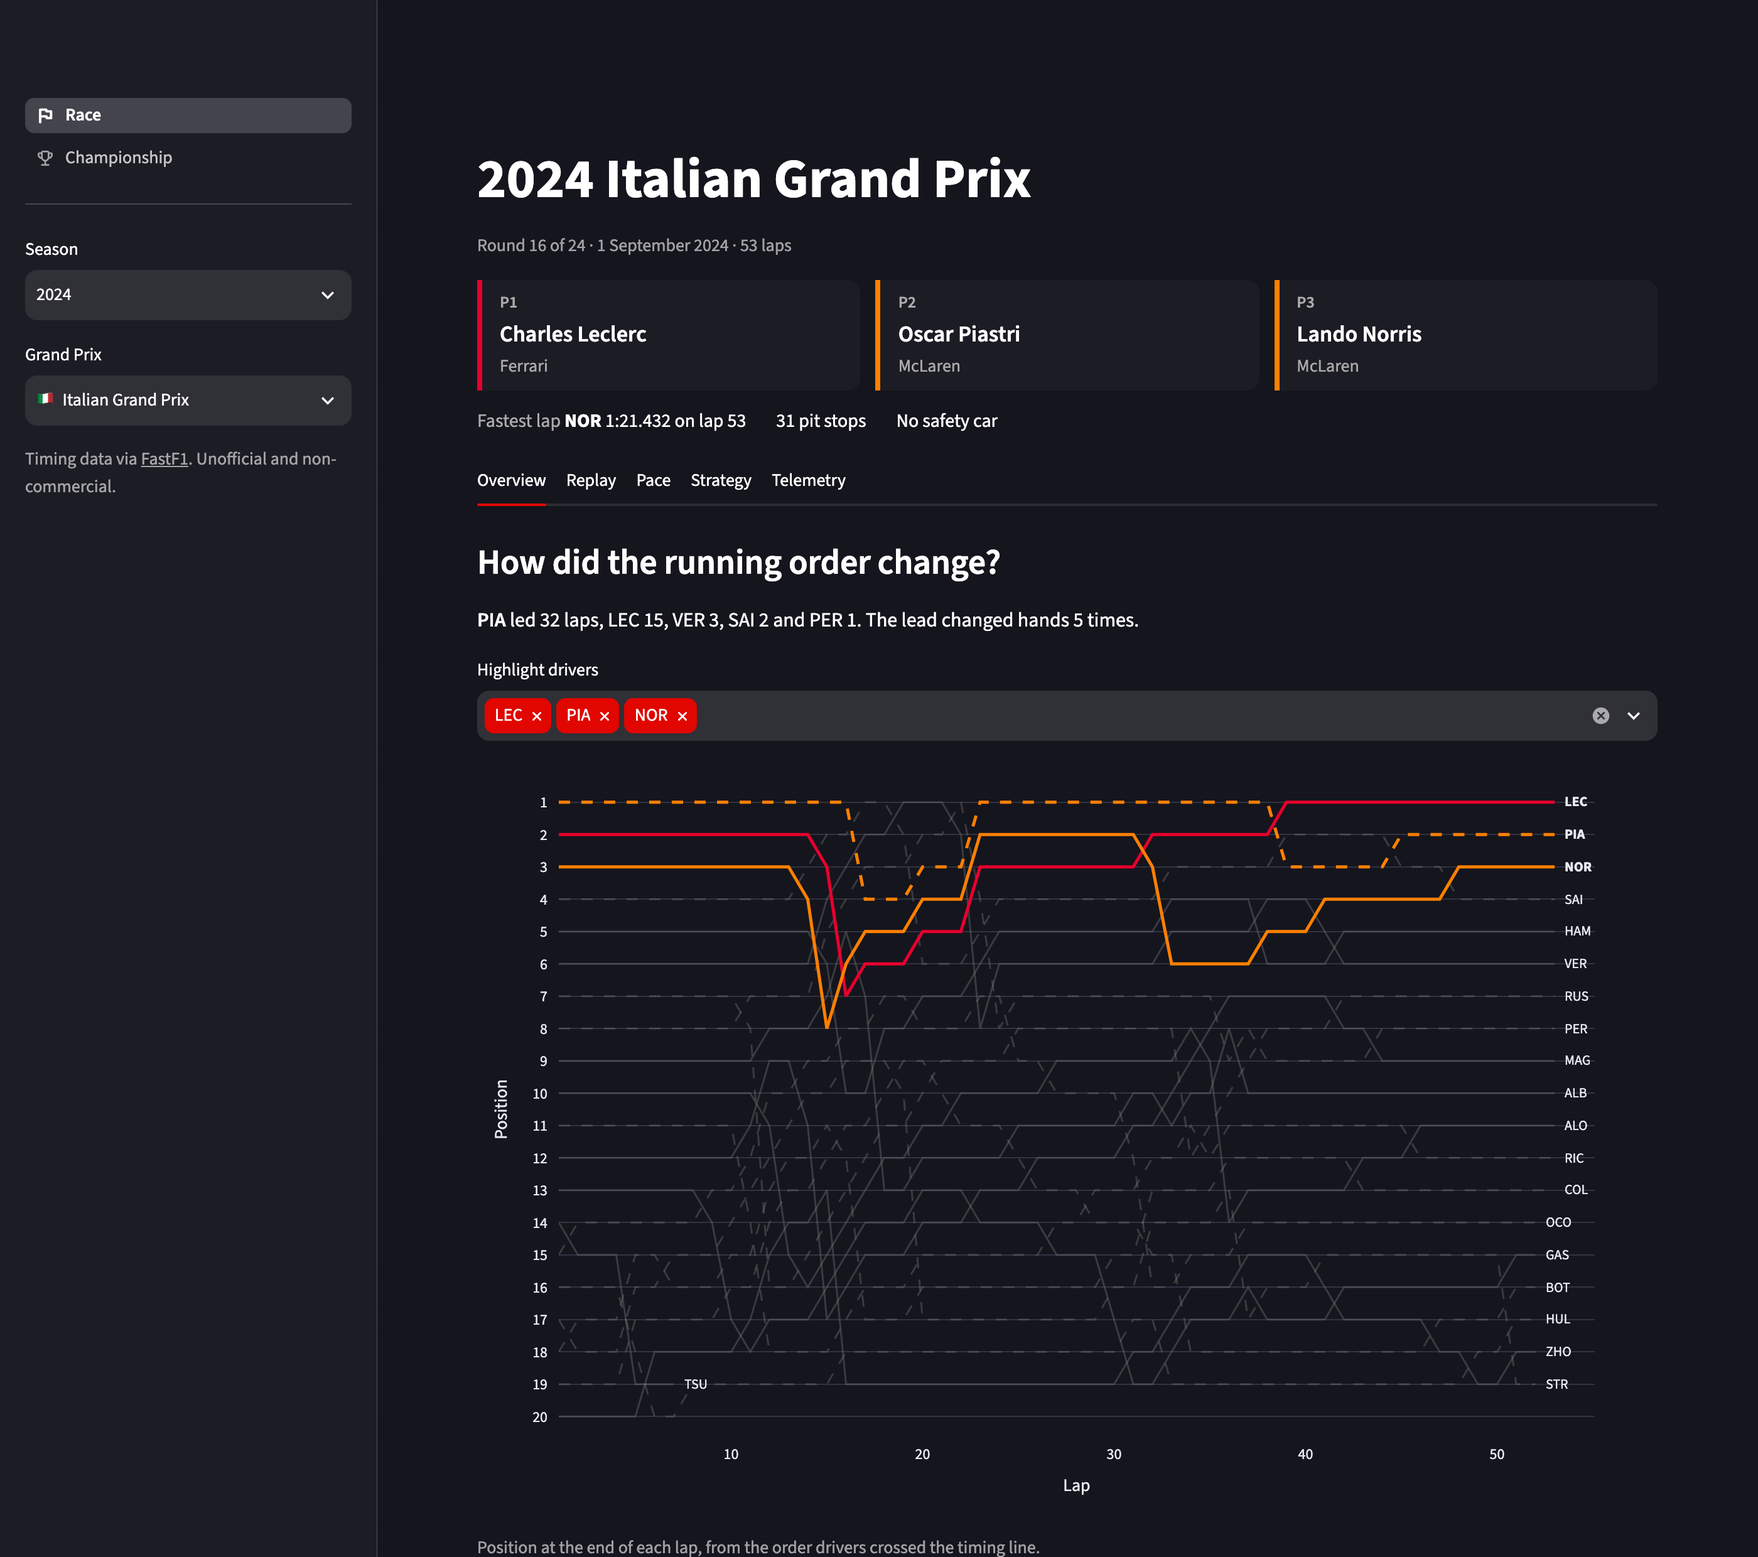
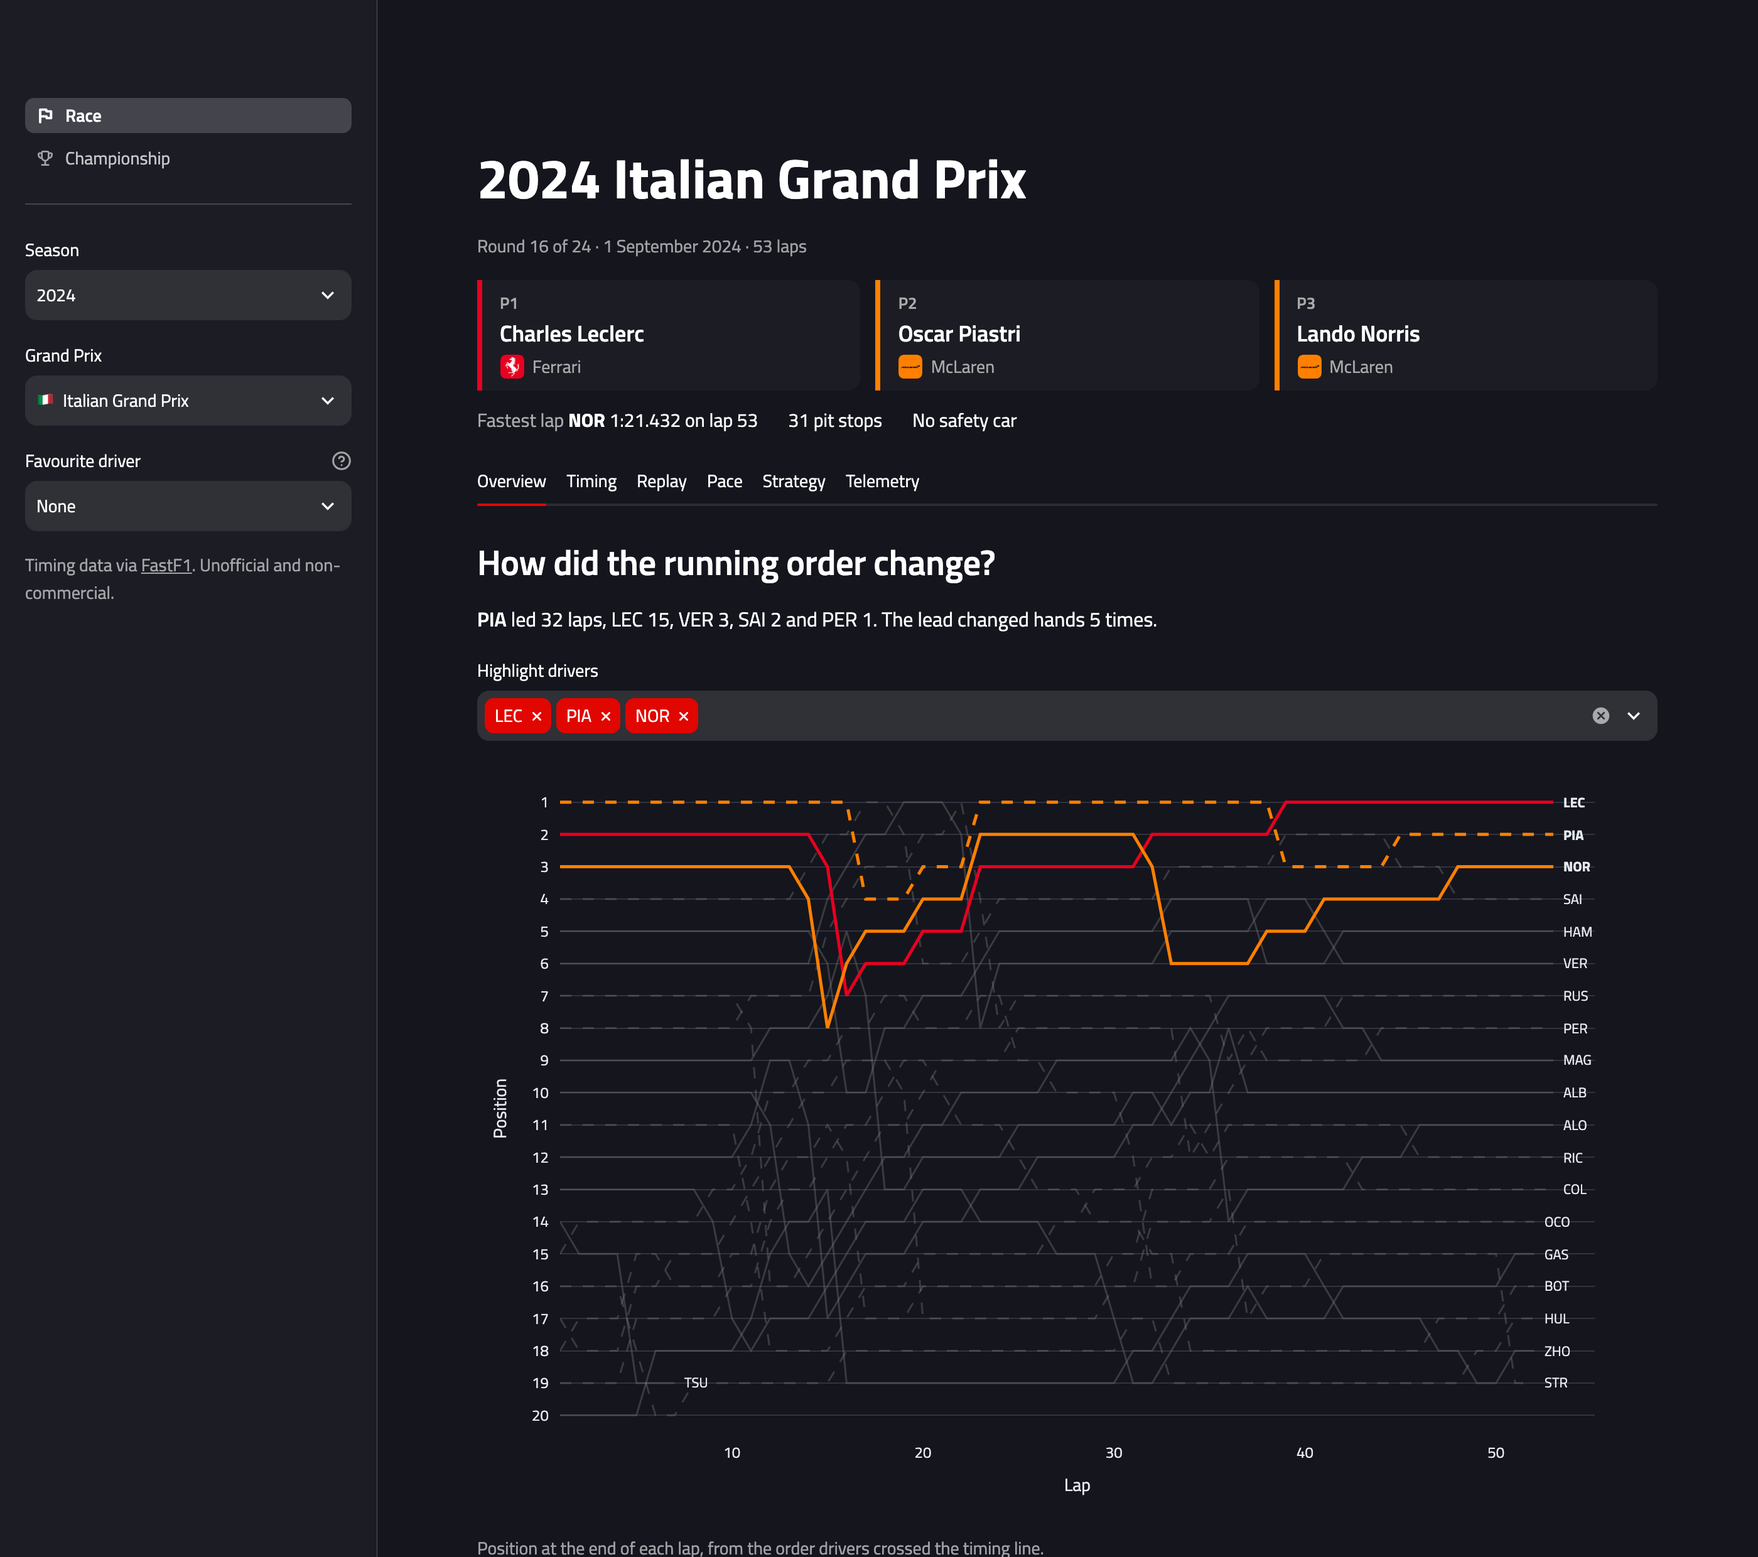
Update README and screenshots

diff --git a/README.md b/README.md
@@ -10,9 +10,10 @@ Race analysis dashboard built on [FastF1](https://github.com/theOehrly/Fast-F1) 
 
 **Race**
 
-Every race opens with a summary: the podium, the fastest lap, the number of pit stops and any safety car, virtual safety car or red flag. The analysis is split into five tabs.
+Every race opens with a summary: the podium with each team's badge, the fastest lap, the number of pit stops and any safety car, virtual safety car or red flag. The analysis is split into six tabs.
 
-- **Overview.** Every driver's position lap by lap, with selected drivers highlighted, plus who led and for how many laps. The gap to the leader through the race, with safety car laps shaded. Track and air temperature and any rain. Race control's decisions, from penalties and investigations to lap times deleted for track limits. Team radio clips, which play in the page.
+- **Overview.** Every driver's position lap by lap, with selected drivers highlighted, plus who led and for how many laps. The gap to the leader through the race, with safety car laps shaded. What the result meant for the drivers' and teams' championships: points scored and places gained or lost. Track and air temperature, humidity, wind and any rain. Race control's decisions: every penalty with its reason, lap times deleted for track limits per driver, and the full message log. Team radio clips, which play in the page.
+- **Timing.** A timing screen for any lap of the race: interval and gap to the leader, last and best lap with the fastest of the race in purple and personal bests in green, current tyre and its age, and every stint so far. A strip above it shows how spread out the field was. At the flag it adds the grid position, the official result and the points scored. Below it, the lap times of up to four drivers side by side with the tyre each lap was set on.
 - **Replay.** Every car on a map of the circuit through the whole race, with the running order alongside. Play it or drag the slider lap by lap.
 - **Pace.** Lap times for any set of drivers, optionally limited to representative laps (no pit in/out laps, no laps under safety car or flags, no laps FastF1 marks as inaccurate) and fuel-corrected. Each team's lap time spread ordered by median pace, and each driver's lap time distribution coloured by tyre compound. The quickest driver in each sector and every driver's theoretical best lap, and top speed against corner speed, which shows who ran a low-drag setup and who ran more downforce.
 - **Strategy.** Every driver's stints, coloured by compound and ordered by finishing position. Every pit stop's time in the pit lane by team, how much a stop cost, and which undercuts worked. The degradation rate of each stint from a linear fit of fuel-corrected lap time against tyre age, summarised by compound. A machine learning model trained on every other race since 2019 predicts how much time each compound should lose at that circuit, shown against the race's actual laps. A strategy simulator uses it to rank every one- and two-stop plan and compares the fastest with the winner's strategy.
@@ -20,30 +21,34 @@ Every race opens with a summary: the podium, the fastest lap, the number of pit 
 
 **Championship**
 
-- Standings after any round, with each driver's maximum possible points and whether they can still win the title.
+- Drivers' and teams' standings after any round, with each one's maximum possible points and whether they can still win the title. Team standings are the official ones, so penalties such as Racing Point's 15-point deduction in 2020 are included.
 - Points progression through the season.
-- Points per round for every driver, race and sprint combined.
+- Points per round for every driver and team, race and sprint combined.
 
-Every view has its own link, so a race, a tab or a point in a championship can be shared directly, for example the [2023 British Grand Prix strategy](https://formula-analyst.streamlit.app/?season=2023&race=british-grand-prix&tab=strategy) or the [2021 standings after Silverstone](https://formula-analyst.streamlit.app/championship?season=2021&round=10). The app follows the system's light or dark setting, and drivers are drawn in their teams' official colours. Every chart is interactive: hover a point for its lap time, tyre, position or speed.
+Pick a favourite driver in the sidebar and they're highlighted in the tables and picked by default in the charts on every page.
+
+Every view has its own link, so a race, a tab or a point in a championship can be shared directly, for example the [2023 British Grand Prix strategy](https://formula-analyst.streamlit.app/?season=2023&race=british-grand-prix&tab=strategy) or the [2021 team standings after Silverstone](https://formula-analyst.streamlit.app/championship?season=2021&round=10&view=teams). The app follows the system's light or dark setting, uses Titillium Web, the open-source typeface the sport's official website uses alongside its own licensed font, and draws drivers in their teams' official colours. Every chart is interactive: hover a point for its lap time, tyre, position or speed.
 
 <picture>
   <source media="(prefers-color-scheme: dark)" srcset="docs/overview-dark.png">
   <img alt="Race overview" src="docs/overview.png">
 </picture>
 
-| Telemetry | Strategy simulator |
+| Timing | Telemetry |
 | --- | --- |
-| ![Telemetry](docs/telemetry.png) | ![Strategy simulator](docs/simulator.png) |
-| **Gap to the leader** | **Pit stops and undercuts** |
-| ![Gap to the leader](docs/gap.png) | ![Pit stops and undercuts](docs/pit-stops.png) |
+| ![Timing](docs/timing.png) | ![Telemetry](docs/telemetry.png) |
+| **Strategy simulator** | **Pit stops and undercuts** |
+| ![Strategy simulator](docs/simulator.png) | ![Pit stops and undercuts](docs/pit-stops.png) |
+| **Gap to the leader** | **Championship after the race** |
+| ![Gap to the leader](docs/gap.png) | ![Championship after the race](docs/standings-impact.png) |
 | **Pace** | **Team pace** |
 | ![Pace](docs/pace.png) | ![Team pace](docs/team-pace.png) |
 | **Strategy** | **Tyre model** |
 | ![Strategy](docs/strategy.png) | ![Tyre model](docs/tyre-model.png) |
 | **Sectors** | **Race control** |
 | ![Sectors](docs/sectors.png) | ![Race control](docs/race-control.png) |
-| **Championship** | |
-| ![Championship](docs/championship.png) | |
+| **Drivers' championship** | **Teams' championship** |
+| ![Drivers' championship](docs/championship.png) | ![Teams' championship](docs/teams.png) |
 
 ## Running locally
 
@@ -58,7 +63,7 @@ streamlit run app.py
 
 ## Race data
 
-Every race from 2018 to the latest 2026 round ships with the app in `data/` (about 40 MB), as compact Parquet files: the lap table with sector times and speed traps, each driver's fastest-lap telemetry, the track outline, the weather, race control messages and the list of team radio clips. The one exception is the 2018 Italian Grand Prix, whose tyre data FastF1 can't process. Each season also has its race and sprint results and its calendar. The radio audio itself isn't bundled; the browser streams it from the official timing service when a clip is played. The live timing service rejects requests from many hosting providers, Streamlit Community Cloud included, so the deployed app reads only this bundle.
+Every race from 2018 to the latest 2026 round ships with the app in `data/` (about 40 MB), as compact Parquet files: the lap table with sector times and speed traps, each driver's fastest-lap telemetry, the track outline, the weather, race control messages and the list of team radio clips. The one exception is the 2018 Italian Grand Prix, whose tyre data FastF1 can't process. Each season also has its race and sprint results, with grid positions and finishing status, the official team standings after every round and its calendar. The radio audio itself isn't bundled; the browser streams it from the official timing service when a clip is played. The live timing service rejects requests from many hosting providers, Streamlit Community Cloud included, so the deployed app reads only this bundle.
 
 When the live timing service is reachable, as it usually is on a home connection, the app also downloads races that aren't bundled. The first download of a race takes about a minute and is cached in `cache/`.
 
@@ -99,15 +104,18 @@ views/championship.py   championship page
 views/data.py           cached data loading for both pages
 views/theme.py          colours and styles shared by the pages
 views/links.py          shareable links from URL parameters
-views/state.py          keeps widget values when switching tabs
-views/tyres.py          tyre compound badges
+views/state.py          keeps widget values when switching tabs, and the favourite driver
+views/tyres.py          tyre compound badges and stint capsules
+views/logos.py          team badges
+views/marks/            team marks from Simple Icons
 views/text.py           small helpers for the generated sentences
 src/analysis.py         positions, pace, gaps, replay and the other race charts
 src/charts.py           chart styling shared by every figure
 src/telemetry.py        telemetry channels, lap delta, corner speeds and gear map
 src/strategy.py         pit stops, undercuts and the strategy simulator
+src/timing.py           timing screen at any lap, field spread and lap-by-lap times
 src/sectors.py          sector times, theoretical best laps and speed traps
-src/conditions.py       weather, race control messages and team radio
+src/conditions.py       weather, race control messages, penalties, track limits and team radio
 src/championship.py     standings, title maths and championship charts
 src/races.py            loading races from FastF1 or the bundle, saving bundles
 src/seasons.py          loading and saving season results
@@ -126,7 +134,7 @@ Everything in `src/` works on plain pandas DataFrames and has no Streamlit depen
 - **Fuel correction** subtracts `fuel_effect × laps remaining` from each lap time, normalising every lap to an empty tank. The default is 0.055 s per lap of fuel and can be changed in the app.
 - **Degradation** is the slope of a least-squares line through fuel-corrected lap time against tyre age, fitted per stint. Stints shorter than the configurable minimum (8 laps by default) are skipped.
 - A straight line is a simplification: tyre warm-up at the start of a stint and the drop-off at the end are averaged into one number.
-- **Tyre model.** For every dry stint from 2019 onwards, when the compounds were named soft, medium and hard, each representative lap's fuel-corrected time is compared with the median of the stint's first three laps. That gives the time lost since the stint began, which includes tyre wear and the track rubbering in. A gradient-boosted tree model (scikit-learn's `HistGradientBoostingRegressor`) predicts it from the compound, tyre age, the age of the set when the stint began, the circuit, the season and the race's median track temperature. It is trained on 126,491 laps from 6,458 stints in 161 races. Cross-validated in five folds grouped by race, so every race is predicted by a model that never saw it, it is off by 0.58 s a lap on average, against 0.63 s for a straight line per compound and 0.75 s for assuming no wear. Lap-to-lap variation from traffic and driving limits how close any model can get. Track temperature was a later addition and barely matters: it brought the error from 0.584 s to 0.581 s, lower on every random split tested, but it helped only about half of the races individually, so the effect is small. The curves shown for each race come from the fold that held it out.
+- **Tyre model.** For every dry stint from 2019 onwards, when the compounds were named soft, medium and hard, each representative lap's fuel-corrected time is compared with the median of the stint's first three laps. That gives the time lost since the stint began, which includes tyre wear and the track rubbering in. A gradient-boosted tree model (scikit-learn's `HistGradientBoostingRegressor`) predicts it from the compound, tyre age, the age of the set when the stint began, the circuit, the season and the race's median track temperature. It is trained on 126,886 laps from 6,491 stints in 162 races. Cross-validated in five folds grouped by race, so every race is predicted by a model that never saw it, it is off by 0.58 s a lap on average, against 0.63 s for a straight line per compound and 0.75 s for assuming no wear. Lap-to-lap variation from traffic and driving limits how close any model can get. Track temperature was a later addition and barely matters: it brought the error from 0.585 s to 0.582 s, lower on every random split tested, but it helped only about half of the races individually, so the effect is small. The curves shown for each race come from the fold that held it out.
 - **Positions** are the order in which drivers completed each lap. They match FastF1's own position data.
 - **Gap to the leader** is the time between each driver and the leader crossing the timing line at the end of a lap. Safety car and virtual safety car laps are the leader's laps that ran under them.
 - **Pit stops.** Time in the pit lane runs from the pit entry line on the in-lap to the pit exit line on the out-lap, so it includes the drive through the lane and any penalty served in the box. The cost of a stop is the in-lap plus the out-lap minus two of the driver's typical green-flag laps, and the race's pit loss is the median of those.
@@ -136,14 +144,19 @@ Everything in `src/` works on plain pandas DataFrames and has no Streamlit depen
 - **Corner by corner.** Each corner covers the track halfway to its neighbours. The minimum speed is the slowest point in that stretch, and the braking point is how far before the corner marker the driver last went on the brakes before the apex. Car data is sampled about four times a second, so short brake taps can be missed.
 - **Race control** messages are grouped by keyword into penalties, investigations, track limits, flags, safety car and DRS, and blue flags are left out.
 - **Weather** for each lap is the last reading from the circuit's weather station before the leader completed it.
+- **Penalties and track limits** are read from race control's messages. Served penalties are left out, and each deleted lap time counts once for its driver.
+- **Timing screen.** Each car's state is taken when it completes the chosen lap, so lapped cars show their previous lap, and the order is the order on track. A car is out once it stops completing laps before the winner takes the flag. Best laps only count laps that stood, so deleted times are left out.
+- **Championship after the race** compares the standings after the race with those after the previous round. Team standings come straight from the official classification after every round rather than being added up from driver points.
 - **Pace comparison** uses representative laps within 107% of the fastest one, the same quick-lap threshold as FastF1.
 - **Mini-sectors** split the fastest lap into 25 equal distances. A driver's time through each one comes from integrating their speed trace.
-- **Race replay** positions come from each lap's start and end times. Within a lap, cars follow the speed profile of the winner's fastest lap, so they slow down in corners rather than moving at constant speed. The order shown is the order on track, before any penalties. Track outlines come from the MultiViewer circuit data that FastF1 uses; the 2020 Sakhir and 2026 Spanish Grand Prix have none.
+- **Race replay** positions come from each lap's start and end times. Within a lap, cars follow the speed profile of the winner's fastest lap, so they slow down in corners rather than moving at constant speed. The order shown is the order on track, before any penalties. Track outlines come from the MultiViewer circuit data that FastF1 uses; the 2020 Sakhir, 2026 Spanish and 2026 Bahrain Grand Prix have none.
 - **Championship standings** add up race and sprint points after each round and break ties by countback over classified finishes. They match the official standings for every bundled season.
-- **Who can still win** compares the leader's points with each driver's points plus the most still available: a race win (and the fastest-lap point from 2019 to 2024) for every remaining round, plus a sprint win where there is one.
+- **Who can still win** compares the leader's points with each driver's points plus the most still available: a race win (and the fastest-lap point from 2019 to 2024) for every remaining round, plus a sprint win where there is one. For teams it's a one-two at every remaining race and sprint.
 
-## Data and license
+## Credits and license
 
-Timing data is provided by FastF1, and the bundled data is derived from it. Race and sprint results come from the [Jolpica F1 API](https://github.com/jolpica/jolpica-f1), the successor to Ergast, through FastF1. This is an unofficial, non-commercial project and is not affiliated with any racing series or its rights holders.
+Timing data is provided by FastF1, and the bundled data is derived from it. Race and sprint results and team standings come from the [Jolpica F1 API](https://github.com/jolpica/jolpica-f1), the successor to Ergast, through FastF1. This is an unofficial, non-commercial project and is not affiliated with any racing series or its rights holders.
+
+The team marks for Ferrari, McLaren, Red Bull, Aston Martin, Audi, Cadillac and Renault come from [Simple Icons](https://simpleicons.org) (CC0); teams without a freely licensed mark are shown by their initials. Team names and marks belong to their owners and are only used to identify the teams. [Titillium Web](https://fonts.google.com/specimen/Titillium+Web) is by the Accademia di Belle Arti di Urbino, used under the SIL Open Font License included in `static/fonts/OFL.txt`.
 
 Released under the [MIT License](LICENSE).
